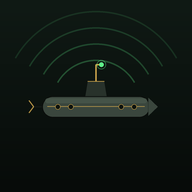
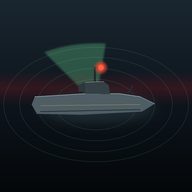
Add files via upload

diff --git a/index.html b/index.html
@@ -213,7 +213,7 @@ const norm=a=>{while(a<-Math.PI)a+=TAU;while(a>Math.PI)a-=TAU;return a;};
 
 /* ---------- terrain (seabed + landmasses) ---------- */
 function genTerrain(coastChance=0.5){
-  const deep=280, blobs=[];
+  const deep=250, blobs=[];
   if(Math.random()<coastChance){
     // a coastline hugging the left or right edge (convoy lane stays clear in the centre)
     const right=Math.random()<0.5;
@@ -476,11 +476,13 @@ function updatePlanes(dt){
   if(G.air){ G.planeT-=dt; if(G.planeT<=0 && G.planes.length<1){ spawnPlane(); G.planeT=200+Math.random()*160; } }
   for(const p of G.planes){
     if(p.state==="patrol"){
-      if(s.depth<14 && dist(p.x,p.y,s.x,s.y)<1100){
+      // spotting range depends on depth: easy on the surface, harder at periscope depth, none if deep
+      const spotR = s.depth<6 ? 1300 : s.depth<14 ? 650 : 0;
+      if(spotR>0 && dist(p.x,p.y,s.x,s.y)<spotR){
         p.state="attack"; p.tx=s.x; p.ty=s.y;
         sayOnce("air","Avion droit sur nous — plongée d'urgence !","alarm"); }
     } else if(p.state==="attack"){
-      if(s.depth<14){ p.tx=s.x; p.ty=s.y; }
+      if(s.depth<16){ p.tx=s.x; p.ty=s.y; }        // keeps track only while shallow
       if(dist(p.x,p.y,p.tx,p.ty)<170 && p.dropT<=0){ planeAttack(p); p.dropT=3; p.state="leave"; saidOnce.air=0; }
       const da=norm(angTo(p.x,p.y,p.tx,p.ty)-p.hdg); p.hdg=norm(p.hdg+clamp(da,-0.5*dt,0.5*dt));
     }
@@ -703,7 +705,7 @@ function step(dt){
   // depth toward target — slow, realistic flooding / blowing rates
   const dd=s.tDepth-s.depth;
   s.pitch = clamp(s.pitch + (clamp(dd*0.05,-1,1)-s.pitch)*dt*2, -1,1);
-  const drate=(dd>0?1.8:2.2);                       // m/s dive vs surface
+  const drate=(dd>0?1.8:3.3);                       // m/s : dive slowly, blow tanks to rise fast
   s.depth += Math.sign(dd)*Math.min(Math.abs(dd),drate*dt) + s.leak*0.7*dt;
 
   // seabed: you cannot pass the bottom
@@ -789,6 +791,7 @@ function step(dt){
     if(!c.alive) continue;
     if(c.type==="cargo"){
       c.hdg=norm(c.hdg+clamp(norm(convoyHdg-c.hdg),-0.4*dt,0.4*dt));   // steer onto the zigzag leg
+      avoidMines(c,dt);
       const cnx=c.x+Math.cos(c.hdg)*c.spd*KN*dt, cny=c.y+Math.sin(c.hdg)*c.spd*KN*dt;
       if(!landAt(cnx,cny)){ c.x=cnx; c.y=cny; } else { c.hdg=norm(c.hdg+0.5); }
       if(c.x<60||c.x>WORLD-60||c.y<60||c.y>WORLD-60){ c.fled=true; c.alive=false; G.escaped++; }
@@ -944,9 +947,18 @@ function escortAI(c,dt){
   // steer with a limited turn rate — a ship cannot pivot on the spot
   const da=norm(angTo(c.x,c.y,tx,ty)-c.hdg);
   c.hdg=norm(c.hdg+clamp(da,-turn*dt,turn*dt));
+  avoidMines(c,dt);
   const enx=clamp(c.x+Math.cos(c.hdg)*spd*KN*dt,20,WORLD-20);
   const eny=clamp(c.y+Math.sin(c.hdg)*spd*KN*dt,20,WORLD-20);
   if(!landAt(enx,eny)){ c.x=enx; c.y=eny; } else { c.hdg=norm(c.hdg+1.0); c.fixT=0; }
+}
+function avoidMines(c,dt){
+  const z=G.mineZone; if(!z) return;
+  const d=dist(c.x,c.y,z.x,z.y);
+  if(d < z.r+300){                              // steer to skirt the minefield
+    const away=angTo(z.x,z.y,c.x,c.y);
+    c.hdg=norm(c.hdg + clamp(norm(away-c.hdg),-0.7*dt,0.7*dt));
+  }
 }
 function dropCharges(c){
   boom();
@@ -1159,19 +1171,28 @@ function drawMap(){
     const gy=oy+m*i/6; cx.beginPath();cx.moveTo(ox,gy);cx.lineTo(ox+m,gy);cx.stroke(); }
   cx.strokeStyle="rgba(95,240,138,.22)"; cx.strokeRect(ox,oy,m,m);
 
-  // terrain: shoals + landmasses + reefs
+  // terrain: shoals + landmasses + reefs (labelled like the minefield)
+  const zlabel=(txt,bx,by,col)=>{
+    const lx=clamp(X(bx),ox+22*DPR,ox+m-22*DPR), ly=clamp(Y(by),oy+14*DPR,oy+m-8*DPR);
+    cx.font=`${9*DPR}px monospace`; cx.textAlign="center";
+    cx.fillStyle="rgba(4,10,7,.6)"; const tw=cx.measureText(txt).width;
+    cx.fillRect(lx-tw/2-4*DPR,ly-9*DPR,tw+8*DPR,13*DPR);
+    cx.fillStyle=col; cx.fillText(txt,lx,ly+1*DPR);
+  };
   for(const b of G.terrain.blobs){
     if(b.reef){
       cx.fillStyle="rgba(120,150,90,.14)";
       cx.beginPath(); cx.ellipse(X(b.x),Y(b.y),b.rx*b.shoal*sc,b.ry*b.shoal*sc,0,0,TAU); cx.fill();
       cx.strokeStyle="rgba(150,180,110,.5)"; cx.lineWidth=1*DPR; cx.setLineDash([3*DPR,3*DPR]);
       cx.beginPath(); cx.ellipse(X(b.x),Y(b.y),b.rx*sc,b.ry*sc,0,0,TAU); cx.stroke(); cx.setLineDash([]);
+      zlabel("⚠ HAUT-FOND", b.x, b.y, "rgba(180,205,120,.85)");
       continue;
     }
     cx.fillStyle="rgba(40,95,80,.20)";
     cx.beginPath(); cx.ellipse(X(b.x),Y(b.y),b.rx*b.shoal*sc,b.ry*b.shoal*sc,0,0,TAU); cx.fill();
     cx.fillStyle="#2c3a24"; cx.strokeStyle="#465a35"; cx.lineWidth=1.5*DPR;
     cx.beginPath(); cx.ellipse(X(b.x),Y(b.y),b.rx*sc,b.ry*sc,0,0,TAU); cx.fill(); cx.stroke();
+    zlabel(b.rx>=WORLD*0.4?"CÔTE":"ÎLE", b.x, b.y, "rgba(150,200,140,.9)");
   }
   // minefield danger zone
   if(G.mineZone){
@@ -1180,8 +1201,7 @@ function drawMap(){
     cx.beginPath(); cx.arc(X(z.x),Y(z.y),z.r*sc,0,TAU); cx.fill();
     cx.strokeStyle="rgba(224,83,58,.45)"; cx.lineWidth=1.2*DPR; cx.setLineDash([6*DPR,5*DPR]);
     cx.beginPath(); cx.arc(X(z.x),Y(z.y),z.r*sc,0,TAU); cx.stroke(); cx.setLineDash([]);
-    cx.fillStyle="rgba(224,83,58,.7)"; cx.font=`${9*DPR}px monospace`; cx.textAlign="center";
-    cx.fillText("⚓ MINES", X(z.x), Y(z.y));
+    zlabel("⚓ MINES", z.x, z.y, "rgba(255,120,95,.9)");
   }
 
   // visual range (what the periscope/lookout can see) + hydrophone reach
@@ -1369,8 +1389,11 @@ function drawPeri(){
       const scale=clamp(1600/o.dM,0.22,3.2);
       const fade=clamp(1-(o.dM/visR)*(0.6+fog*0.5),0.05,1); // fade near the limit / in fog
       const swell = sea*scale*4*DPR*Math.sin(G.t*1.5+o.dM*0.01);
+      // foreshortening: angle between the ship's heading and our line of sight
+      const asp=norm(o.c.hdg - angTo(s.x,s.y,o.c.x,o.c.y));
+      const xscale=(asp<0?-1:1)*(0.26+0.74*Math.abs(Math.sin(asp)));  // bow/stern-on → narrow, beam → wide
       cx.globalAlpha=fade;
-      drawShipSil(cx,px,horizon+swell,scale*DPR,o.c.type,o.c.hdg-s.scope);
+      drawShipSil(cx,px,horizon+swell,scale*DPR,o.c.type,xscale);
       cx.globalAlpha=1;
     }
     // explosions in view
@@ -1420,14 +1443,16 @@ function drawPeri(){
     ptext(cx, hh+"h · "+tod.label, w-10*DPR, 20*DPR, "#ffffff",12,"right");
     ptext(cx, env.weather.name, w-10*DPR, 41*DPR, "#ffd24a",12,"right");
 
-    // target under the crosshair — dark pill, bright text
+    // target under the crosshair — dark pill, bright text + aspect
     if(centered && Math.abs(cRel)<8*D2R){
       const label=(centered.c.type==="escort"?"ESCORTE":"LIBERTY")+"  "+Math.round(centered.dM)+" m";
+      const asp=aspectLabel(centered.c,s);
       const ty=horizon-80*DPR;
       cx.font=`bold ${13*DPR}px monospace`; const tw=cx.measureText(label).width;
       cx.fillStyle="rgba(4,8,6,.72)";
       rounded(cx, w*0.5-tw/2-10*DPR, ty-15*DPR, tw+20*DPR, 22*DPR, 5*DPR); cx.fill();
       ptext(cx,label, w*0.5, ty, "#ffd24a",13,"center");
+      ptext(cx,"vu "+asp, w*0.5, ty+18*DPR, "#9dffb8",11,"center");
     }
 
     // ---- bottom firing-solution bar ----
@@ -1487,9 +1512,9 @@ function drawBlast(cx,x,base,sc,prog){
   if(prog>0.4){ cx.fillStyle=`rgba(60,55,55,${(prog-0.4)*0.6})`;
     cx.beginPath(); cx.arc(x,y-r*0.6,r*0.5,0,TAU); cx.fill(); }
 }
-function drawShipSil(cx,x,base,sc,type,relHdg){
-  const wsh=46*sc, hsh=10*sc, beam=0.35+0.65*Math.abs(Math.sin(relHdg));
-  cx.save(); cx.translate(x,base); cx.scale(beam,1); cx.fillStyle="#0d1417";
+function drawShipSil(cx,x,base,sc,type,xscale){
+  const wsh=46*sc, hsh=10*sc;
+  cx.save(); cx.translate(x,base); cx.scale(xscale,1); cx.fillStyle="#0d1417";
   if(type==="escort"){
     // warship: long, low flush-deck hull, gun turrets, two raked funnels
     const w2=wsh*0.60, h2=hsh*0.62;
@@ -1515,6 +1540,14 @@ function drawShipSil(cx,x,base,sc,type,relHdg){
   cx.restore();
 }
 
+function aspectLabel(c,s){
+  const a=Math.abs(norm(c.hdg - angTo(s.x,s.y,c.x,c.y) - Math.PI))*R2D; // 0=de face, 180=de poupe
+  if(a<25)  return "de face";
+  if(a<70)  return "3/4 avant";
+  if(a<110) return "de profil";
+  if(a<155) return "3/4 arrière";
+  return "de poupe";
+}
 function rounded(cx,x,y,w,h,r){
   cx.beginPath();
   cx.moveTo(x+r,y); cx.arcTo(x+w,y,x+w,y+h,r); cx.arcTo(x+w,y+h,x,y+h,r);

diff --git a/sw.js b/sw.js
@@ -1,4 +1,4 @@
-const CACHE = "uboot-v10";
+const CACHE = "uboot-v12";
 const ASSETS = [
   "./",
   "./index.html",